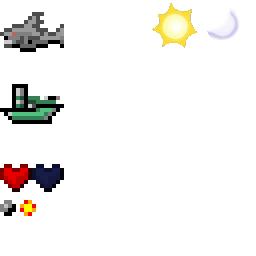
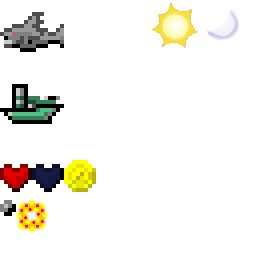
some balance fixes

Changed region(s): [[0.25, 0.625, 0.375, 0.75], [0.0625, 0.7812, 0.1875, 0.9062]]

diff --git a/src/mhyhre/lightrabbit/Scenes/SceneGame.java b/src/mhyhre/lightrabbit/Scenes/SceneGame.java
@@ -39,8 +39,10 @@ public class SceneGame extends MhyhreScene {
 
 	private Background mBackground;
 	private boolean loaded = false;
+	
 
-	Sprite spriteMoveRight, spriteMoveLeft, spriteFire, boat;
+
+	Sprite spriteMoveRight, spriteMoveLeft, spriteFire, boat, spriteGold;
 	SpriteBatch healthIndicator, bulletBatch, sharkBatch;
 	
 	List<BulletUnit> mBullets;
@@ -53,6 +55,7 @@ public class SceneGame extends MhyhreScene {
 
 	private WaterPolygon water;
 
+	private int totalGold = 100;
 	final int maxHealth = 3;
 	int currentHealth = 3;
 
@@ -100,8 +103,7 @@ public class SceneGame extends MhyhreScene {
 	
 	private void createGUI(){
 
-		textGold = new Text(220, 10, MainActivity.Res.getFont("White Furore"), String.valueOf(1200), 20, MainActivity.Me.getVertexBufferObjectManager());
-		attachChild(textGold);
+
 		
 		spriteMoveLeft = new Sprite(0,0, TextureRegions.get("Left"), MainActivity.Me.getVertexBufferObjectManager()) {
 			@Override
@@ -168,7 +170,7 @@ public class SceneGame extends MhyhreScene {
 
 	private void createGameObjects(){
 		
-
+		
 		
 		mBullets = new LinkedList<BulletUnit>();
 		mSharks = new LinkedList<SharkUnit>();
@@ -189,15 +191,22 @@ public class SceneGame extends MhyhreScene {
 		
 		mSkyes = new SkyManager(mBackground, water, MainActivity.Me.getVertexBufferObjectManager());
 
+		spriteGold = new Sprite(300, 10, MainActivity.Res.getTextureRegion("gold"), MainActivity.Me.getVertexBufferObjectManager());
 		
+		textGold = new Text(340, 10, MainActivity.Res.getFont("White Furore"), String.valueOf(totalGold), 20, MainActivity.Me.getVertexBufferObjectManager());
+		textGold.setPosition(340, 22 - textGold.getHeight()/2);
 		
 		this.attachChild(mSkyes);
 		this.attachChild(mClouds);
-		this.attachChild(water);
-		attachChild(boat);
-		attachChild(healthIndicator);
 		attachChild(sharkBatch);
 		attachChild(bulletBatch);
+		attachChild(boat);
+		this.attachChild(water);
+		
+		attachChild(healthIndicator);
+		attachChild(spriteGold);
+		attachChild(textGold);
+		
 	}
 	
 	@Override
@@ -276,6 +285,7 @@ public class SceneGame extends MhyhreScene {
 			if (collideCircleByCircle(boat, 20, shark.getCX(), shark.getCY(), 20)){
 				
 				if(shark.isDied() == false){
+					
 					MainActivity.vibrate(30);
 					
 					if(currentHealth>0)
@@ -305,8 +315,14 @@ public class SceneGame extends MhyhreScene {
 			for(SharkUnit shark : mSharks){
 				
 				if (bullet.getBoom()==0 && bullet.collideWithCircle(shark.getCX(),shark.getCY(), 24)) {
+					
+					if(shark.isDied() == false){	
+						totalGold += 50;
+						textGold.setText(String.valueOf(totalGold));
+					}
+					
 					bullet.setSink(true);
-					bullet.setBoom(6);
+					bullet.setBoom(10);
 					shark.setDied(true);
 				}
 			}
@@ -336,7 +352,10 @@ public class SceneGame extends MhyhreScene {
 				bulletResultRegion = bulletRegion;
 			}
 			if(bullet.getBoom() != -1){
-				bulletBatch.draw(bulletResultRegion, bullet.getX(), bullet.getY(), bulletRegion.getWidth(), bulletRegion.getHeight(), 1, 1, 1, 1, 1);
+				bulletBatch.draw(bulletResultRegion,
+						bullet.getX()-bulletResultRegion.getWidth()/2, bullet.getY()-bulletResultRegion.getHeight()/2, 
+						bulletResultRegion.getWidth(), bulletResultRegion.getHeight(),
+						1, 1, 1, 1, 1);
 			}
 		}
 

diff --git a/src/mhyhre/lightrabbit/game/SkyManager.java b/src/mhyhre/lightrabbit/game/SkyManager.java
@@ -14,7 +14,7 @@ import android.util.Log;
 public class SkyManager extends Entity {
 
 	// Per second
-	public final float mTimeSpeed = 0.02f;
+	public final float mTimeSpeed = 0.04f;
 	float mTime;
 
 	Sprite spriteSun;
@@ -38,7 +38,7 @@ public class SkyManager extends Entity {
 		mBackground = pBackground;
 		mWater = pWater;
 
-		mTime = (float) (Math.PI * 1.5f);
+		mTime = (float) (Math.PI * 1.7f);
 		mNight = false;
 
 		spriteSun = new Sprite(10, 10, MainActivity.Res.getTextureRegion("sun"), vertexBufferObjectManager);
@@ -97,7 +97,7 @@ public class SkyManager extends Entity {
 
 	private void desireColor(Color current, Color target) {
 
-		final float d = 0.01f;
+		final float d = 0.005f;
 		final float dgreen = 0.005f;
 		
 		if(isEqualColor(current, target, 0.02f)){

diff --git a/src/mhyhre/lightrabbit/ResourceManager.java b/src/mhyhre/lightrabbit/ResourceManager.java
@@ -130,11 +130,14 @@ public class ResourceManager {
 		
 		region = TextureRegionFactory.extractFromTexture(atlas, 32, 160, 32, 32);
 		regions.put("heart_died", region);
+		
+		region = TextureRegionFactory.extractFromTexture(atlas, 64, 160, 32, 32);
+		regions.put("gold", region);
 
 		region = TextureRegionFactory.extractFromTexture(atlas, 0, 200, 16, 16);
 		regions.put("bullet", region);
 		
-		region = TextureRegionFactory.extractFromTexture(atlas, 16, 200, 16, 16);
+		region = TextureRegionFactory.extractFromTexture(atlas, 16, 200, 32, 32);
 		regions.put("bullet_boom", region);
 		
 		region = TextureRegionFactory.extractFromTexture(atlas, 150, 0, 50, 50);

diff --git a/src/mhyhre/lightrabbit/game/BulletUnit.java b/src/mhyhre/lightrabbit/game/BulletUnit.java
@@ -60,7 +60,7 @@ public class BulletUnit extends Entity {
 		if(mSink){
 			mY += sSinkSpeed;
 			if(mAcceleration.x>0.1f){
-				mAcceleration.x/=1.15f;
+				mAcceleration.x/=1.05f;
 				mX += mAcceleration.x;
 			}
 			mX -= 1;

diff --git a/src/mhyhre/lightrabbit/game/SharkUnit.java b/src/mhyhre/lightrabbit/game/SharkUnit.java
@@ -88,7 +88,7 @@ public class SharkUnit {
 			}
 		}else{
 			mX -= sSpeed;	
-			mY = (float) (waterLevel + 5 + 20 * Math.sin(mX/(Math.PI*4)));
+			mY = (float) (waterLevel + 20 * Math.sin(mX/(Math.PI*4)));
 		}
 	}
 
